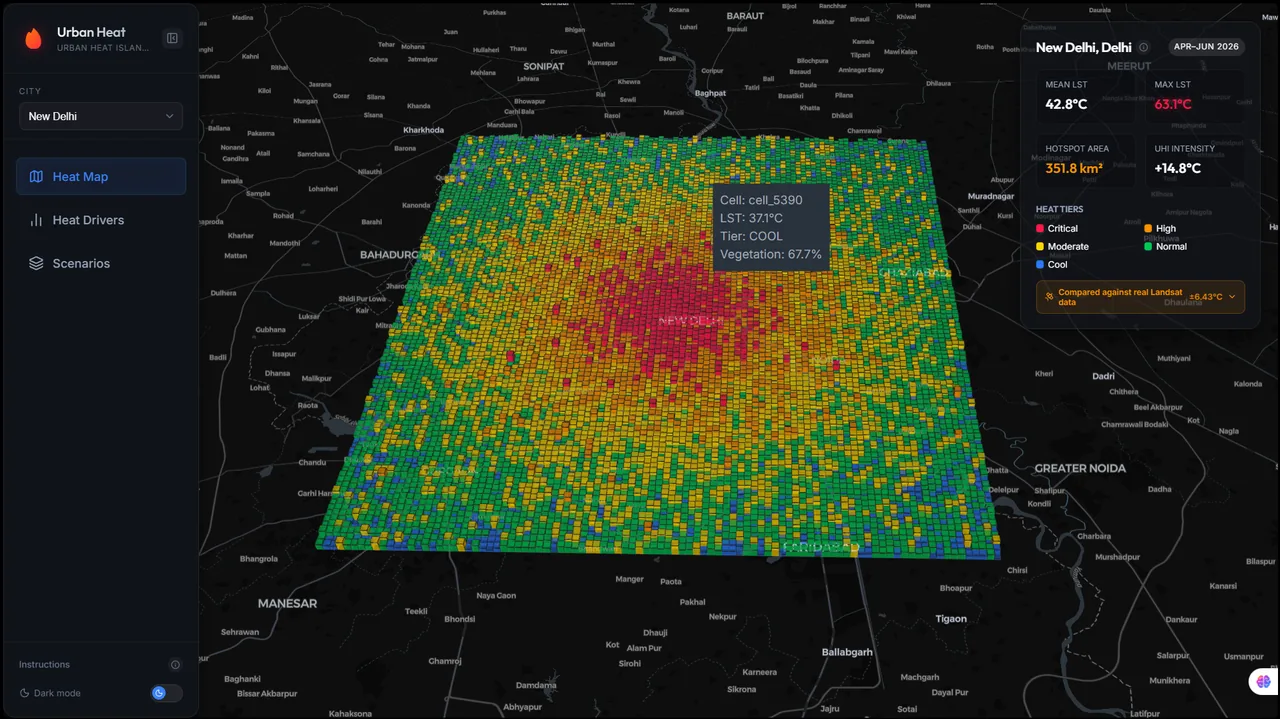
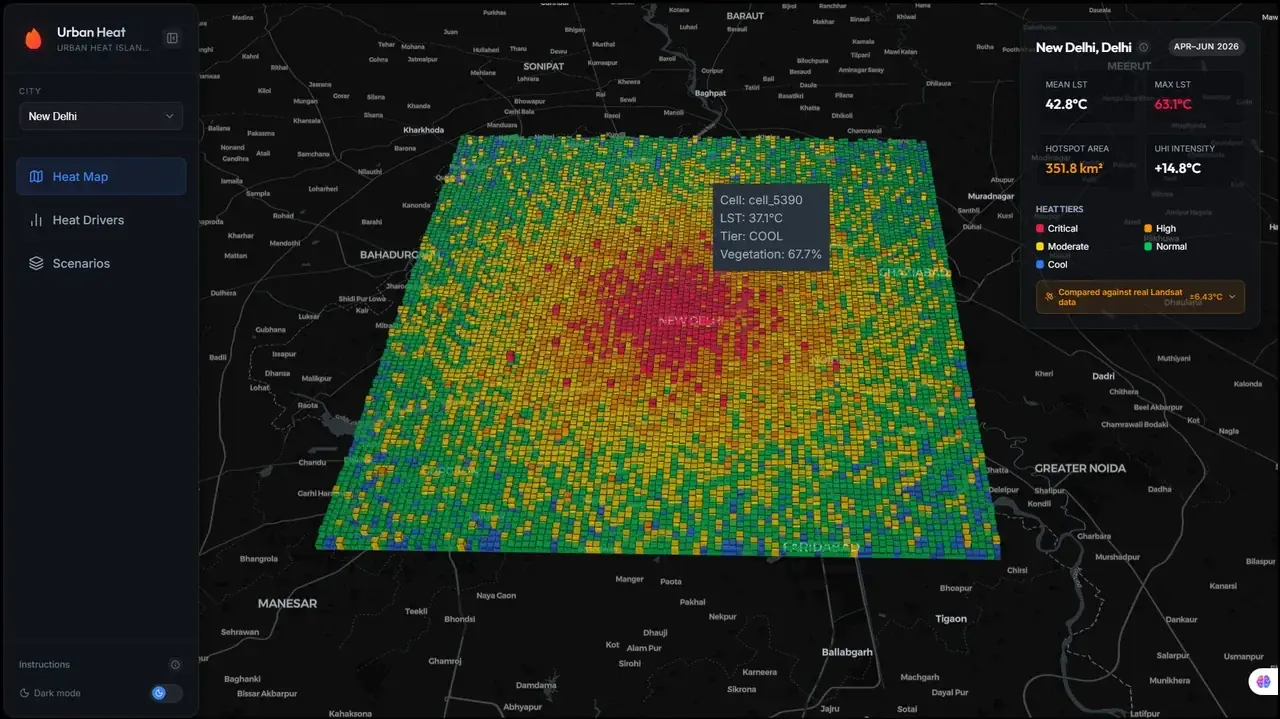
Fixed issue in command panel and various bugs

diff --git a/src/components/Home/Projects.tsx b/src/components/Home/Projects.tsx
@@ -1,4 +1,4 @@
-import React, { useEffect, useRef, useState } from "react";
+import React, { useEffect, useRef, useState, memo } from "react";
 import { motion, AnimatePresence } from "framer-motion";
 import { ExternalLink, ChevronDown, Github } from "lucide-react";
 import { projectItem, Theme } from "../../utils/constants";
@@ -460,4 +460,4 @@ const Projects: React.FC<{ projects: projectItem[]; theme: Theme }> = ({
   );
 };
 
-export default Projects;
+export default memo(Projects);

diff --git a/src/components/Layout/StaggeredMenu.tsx b/src/components/Layout/StaggeredMenu.tsx
@@ -549,6 +549,7 @@ export const StaggeredMenu: React.FC<StaggeredMenuProps> = ({
         <aside
           id="staggered-menu-panel"
           ref={panelRef}
+          data-lenis-prevent
           className="staggered-menu-panel absolute top-0 right-0 h-[100dvh] max-h-[100dvh] bg-background flex flex-col p-[6em_2em_2em_2em] overflow-y-auto z-10 backdrop-blur-[12px]"
           style={{
             WebkitBackdropFilter: "blur(12px)",

diff --git a/src/components/CommandPalette.tsx b/src/components/CommandPalette.tsx
@@ -310,6 +310,7 @@ const CommandPalette: React.FC<CommandPaletteProps> = ({
             {/* Results */}
             <div
               role="listbox"
+              data-lenis-prevent
               className="max-h-[60vh] overflow-y-auto py-2"
             >
               {filtered.length === 0 && (
